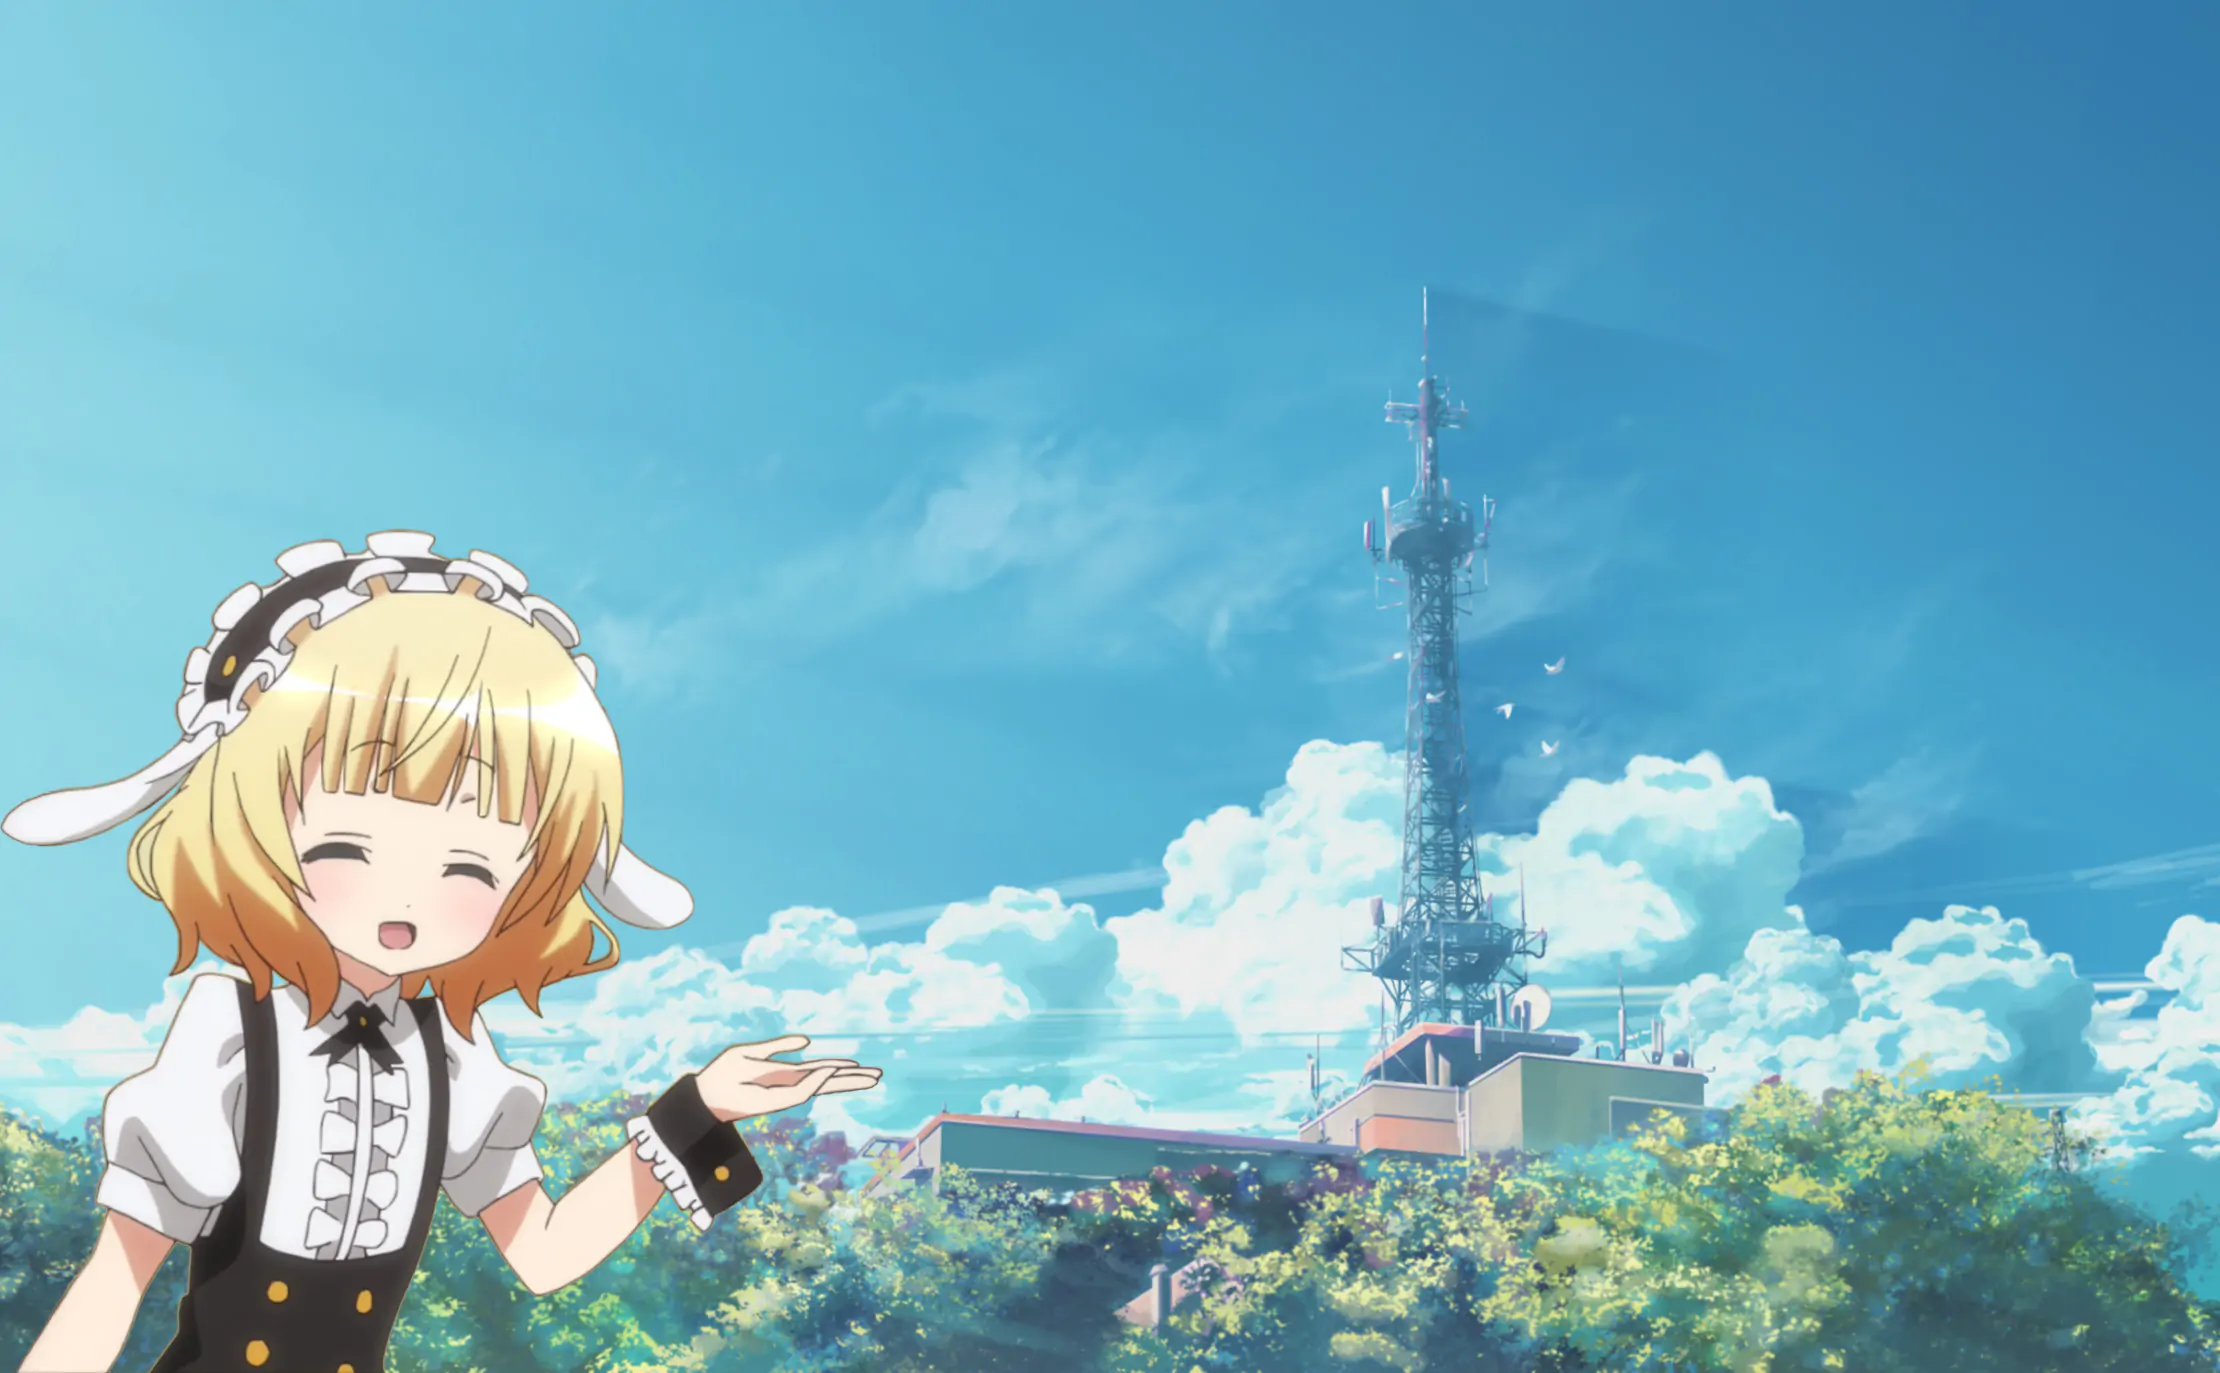
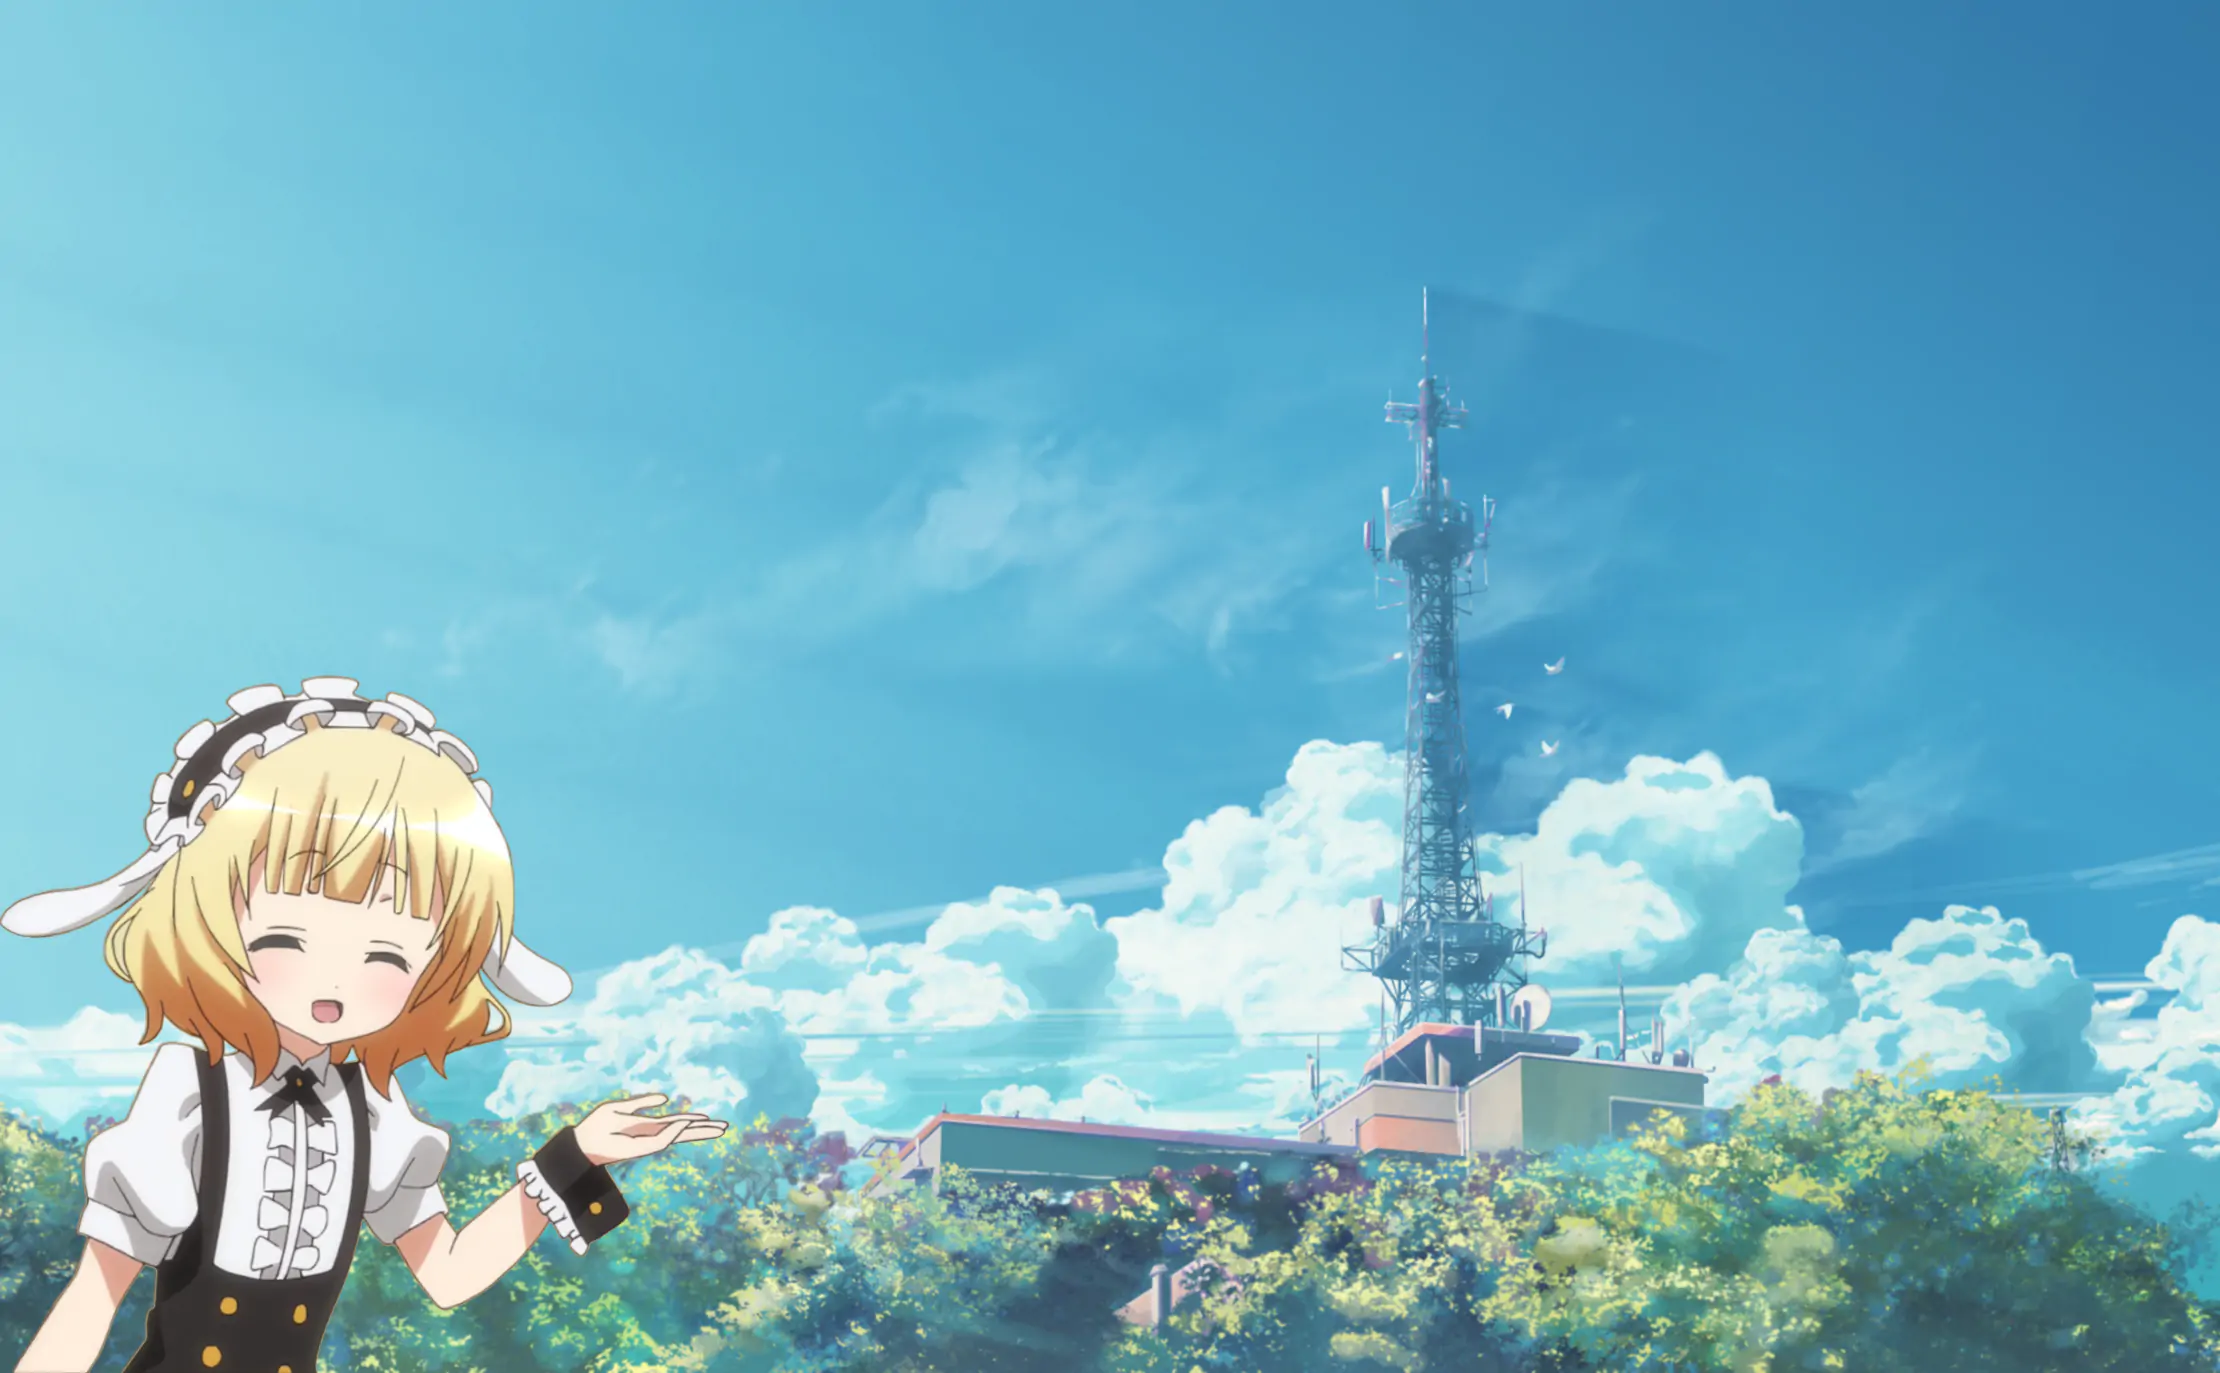
Site updated: 2020-04-23 22:16:12

Changed region(s): [[0.0, 0.3671, 0.4041, 1.0]]

diff --git a/index.html b/index.html
@@ -104,8 +104,8 @@
          style="background: url('/img/background.webp') no-repeat bottom left;
            background-size: cover;">
       <div class="full-bg-img">
-        <div class="mask flex-center" style="background-color: rgba(0, 0, 0, 0.07)">
-          <div class="container text-center white-text fadeInUp">
+        <div class="mask flex-center" style="background-color: rgba(0, 0, 0, 0)">
+          <div class="container text-center white-s-text fadeInUp">
             <span class="h2" id="subtitle">
               
             </span>

diff --git a/2020/04/comments-is-now-available/index.html b/2020/04/comments-is-now-available/index.html
@@ -105,7 +105,7 @@
            background-size: cover;">
       <div class="full-bg-img">
         <div class="mask flex-center" style="background-color: rgba(0, 0, 0, 0.2)">
-          <div class="container text-center white-text fadeInUp">
+          <div class="container text-center white-s-text fadeInUp">
             <span class="h2" id="subtitle">
               
             </span>

diff --git a/2020/04/怎么回事呢/index.html b/2020/04/怎么回事呢/index.html
@@ -105,7 +105,7 @@
            background-size: cover;">
       <div class="full-bg-img">
         <div class="mask flex-center" style="background-color: rgba(0, 0, 0, 0.2)">
-          <div class="container text-center white-text fadeInUp">
+          <div class="container text-center white-s-text fadeInUp">
             <span class="h2" id="subtitle">
               
             </span>

diff --git a/404.html b/404.html
@@ -105,7 +105,7 @@
            background-size: cover;">
       <div class="full-bg-img">
         <div class="mask flex-center" style="background-color: rgba(0, 0, 0, 0.2)">
-          <div class="container text-center white-text fadeInUp">
+          <div class="container text-center white-s-text fadeInUp">
             <span class="h2" id="subtitle">
               
             </span>

diff --git a/about/index.html b/about/index.html
@@ -105,7 +105,7 @@
            background-size: cover;">
       <div class="full-bg-img">
         <div class="mask flex-center" style="background-color: rgba(0, 0, 0, 0.2)">
-          <div class="container text-center white-text fadeInUp">
+          <div class="container text-center white-s-text fadeInUp">
             <span class="h2" id="subtitle">
               
             </span>

diff --git a/archives/2020/04/index.html b/archives/2020/04/index.html
@@ -105,7 +105,7 @@
            background-size: cover;">
       <div class="full-bg-img">
         <div class="mask flex-center" style="background-color: rgba(0, 0, 0, 0.2)">
-          <div class="container text-center white-text fadeInUp">
+          <div class="container text-center white-s-text fadeInUp">
             <span class="h2" id="subtitle">
               
             </span>

diff --git a/archives/2020/index.html b/archives/2020/index.html
@@ -105,7 +105,7 @@
            background-size: cover;">
       <div class="full-bg-img">
         <div class="mask flex-center" style="background-color: rgba(0, 0, 0, 0.2)">
-          <div class="container text-center white-text fadeInUp">
+          <div class="container text-center white-s-text fadeInUp">
             <span class="h2" id="subtitle">
               
             </span>

diff --git a/archives/index.html b/archives/index.html
@@ -105,7 +105,7 @@
            background-size: cover;">
       <div class="full-bg-img">
         <div class="mask flex-center" style="background-color: rgba(0, 0, 0, 0.2)">
-          <div class="container text-center white-text fadeInUp">
+          <div class="container text-center white-s-text fadeInUp">
             <span class="h2" id="subtitle">
               
             </span>

diff --git a/categories/index.html b/categories/index.html
@@ -105,7 +105,7 @@
            background-size: cover;">
       <div class="full-bg-img">
         <div class="mask flex-center" style="background-color: rgba(0, 0, 0, 0.2)">
-          <div class="container text-center white-text fadeInUp">
+          <div class="container text-center white-s-text fadeInUp">
             <span class="h2" id="subtitle">
               
             </span>

diff --git a/links/index.html b/links/index.html
@@ -105,7 +105,7 @@
            background-size: cover;">
       <div class="full-bg-img">
         <div class="mask flex-center" style="background-color: rgba(0, 0, 0, 0.2)">
-          <div class="container text-center white-text fadeInUp">
+          <div class="container text-center white-s-text fadeInUp">
             <span class="h2" id="subtitle">
               
             </span>

diff --git a/tags/index.html b/tags/index.html
@@ -105,7 +105,7 @@
            background-size: cover;">
       <div class="full-bg-img">
         <div class="mask flex-center" style="background-color: rgba(0, 0, 0, 0.2)">
-          <div class="container text-center white-text fadeInUp">
+          <div class="container text-center white-s-text fadeInUp">
             <span class="h2" id="subtitle">
               
             </span>

diff --git a/css/main.css b/css/main.css
@@ -80,6 +80,10 @@ img[srcset] {
 .white-text {
   color: #fff;
 }
+.white-s-text {
+  -webkit-text-stroke: 0.5px #6cf;
+  color: #0ff;
+}
 .fadeInUp {
   -webkit-animation-name: fadeInUp;
   animation-name: fadeInUp;
